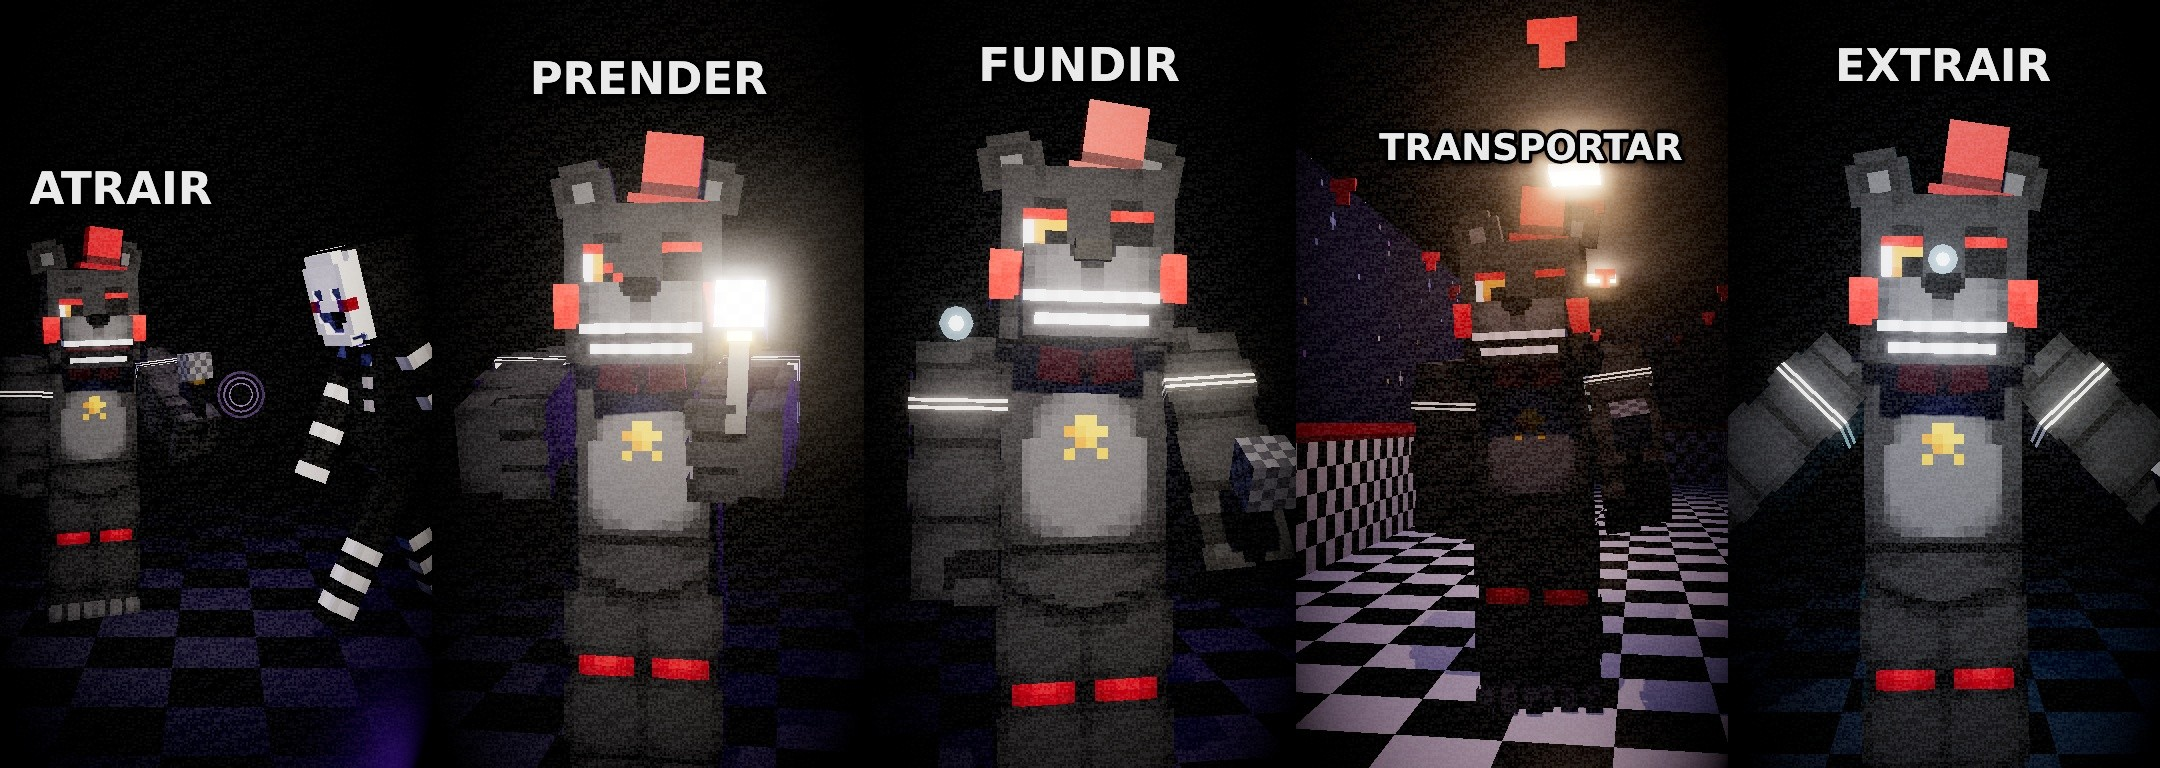
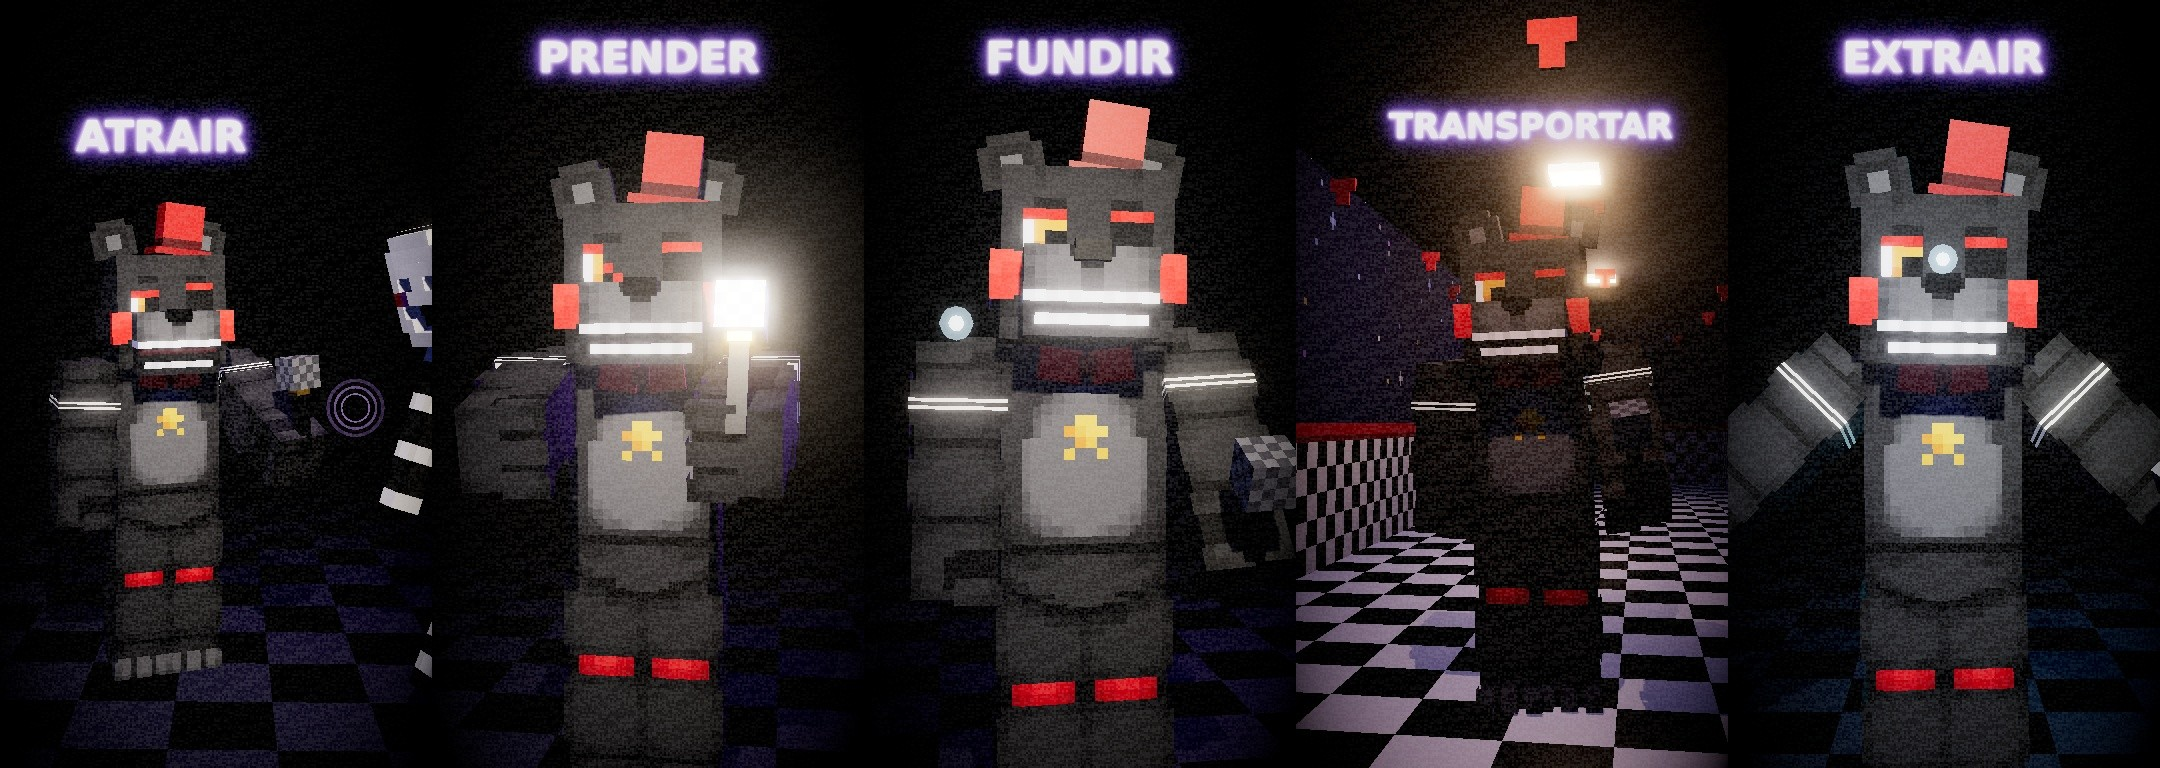
fnaf_lefty: glowing outline-free words following Lefty's head
Claude-Session: https://claude.ai/code/session_017ETuxfviGNxYPofscL2qoo

diff --git a/fnaf_lefty/src/main.js b/fnaf_lefty/src/main.js
@@ -158,11 +158,14 @@ function drawUI(spec, t) {
     ui.font = `bold ${52 * s}px "DejaVu Sans Mono", monospace`; ui.fillStyle = 'rgba(255,255,255,0.95)'; ui.textBaseline = 'top'; ui.fillText('REC', m + 85 * s, m + 30 * s);
     if (blink) { ui.fillStyle = '#ff2a2a'; ui.beginPath(); ui.arc(m + 50 * s, m + 56 * s, 18 * s, 0, 7); ui.fill(); }
     ui.fillStyle = 'rgba(255,255,255,0.95)'; ui.textAlign = 'right'; ui.textBaseline = 'bottom'; ui.fillText(spec, W - m - 30 * s, H - m - 30 * s); ui.textAlign = 'left';
-  } else if (spec.type === 'word') { // one Portuguese word on top, pops with overshoot exactly on the spoken word
-    const k = spec.k, a = spec.a; ui.save(); ui.globalAlpha = a; ui.translate(W * (spec.u ?? 0.5), H * (spec.v ?? 0.16)); ui.scale(k, k);
-    ui.font = `900 ${(spec.txt.length > 8 ? 92 : 112) * s}px "DejaVu Sans", sans-serif`; ui.textAlign = 'center'; ui.textBaseline = 'middle'; ui.lineJoin = 'round';
-    ui.shadowColor = 'rgba(0,0,0,0.85)'; ui.shadowBlur = 24 * s; ui.shadowOffsetY = 8 * s; ui.lineWidth = 18 * s; ui.strokeStyle = '#000000'; ui.strokeText(spec.txt, 0, 0);
-    ui.shadowColor = 'transparent'; ui.fillStyle = '#ffffff'; ui.fillText(spec.txt, 0, 0); ui.restore();
+  } else if (spec.type === 'word') { // glowing word that follows Lefty's head, centred on him, no outline
+    const k = spec.k, a = spec.a; const fs = (spec.txt.length > 8 ? 86 : 104) * s; ui.font = `900 ${fs}px "DejaVu Sans", sans-serif`;
+    const tw = ui.measureText(spec.txt).width * Math.max(1, k); const half = tw / 2 + 24 * s; const cx = Math.min(W - half, Math.max(half, W * spec.u)), cy = H * spec.v;
+    ui.save(); ui.translate(cx, cy); ui.scale(k, k); ui.textAlign = 'center'; ui.textBaseline = 'middle'; ui.globalCompositeOperation = 'lighter';
+    const pulse = 0.85 + 0.15 * Math.sin(t * 7);
+    for (const [blur, al] of [[60 * s, 0.55], [30 * s, 0.7], [12 * s, 0.9]]) { ui.globalAlpha = a * al * pulse; ui.shadowColor = '#b48cff'; ui.shadowBlur = blur; ui.fillStyle = '#b48cff'; ui.fillText(spec.txt, 0, 0); }
+    ui.globalCompositeOperation = 'source-over'; ui.shadowBlur = 8 * s; ui.shadowColor = '#ffffff'; ui.globalAlpha = a;
+    const gr = ui.createLinearGradient(0, -fs / 2, 0, fs / 2); gr.addColorStop(0, '#ffffff'); gr.addColorStop(1, '#e6d8ff'); ui.fillStyle = gr; ui.fillText(spec.txt, 0, 0); ui.restore();
   } else if (spec.type === 'endcard') { // the full video's thumbnail with a small bouncing arrow above and below, both pointing down
     const k = spec.k, a = spec.a ?? 1; const tw = W * 0.84 * k, th = tw * THUMB.height / THUMB.width; const cx = W / 2, cy = H * 0.47; const x0 = cx - tw / 2, y0 = cy - th / 2; const rr = 26 * s * k;
     ui.globalAlpha = a; const rnd = (x, y, w, h, r) => { ui.beginPath(); ui.moveTo(x + r, y); ui.arcTo(x + w, y, x + w, y + h, r); ui.arcTo(x + w, y + h, x, y + h, r); ui.arcTo(x, y + h, x, y, r); ui.arcTo(x, y, x + w, y, r); ui.closePath(); };

diff --git a/fnaf_lefty/src/shots.js b/fnaf_lefty/src/shots.js
@@ -203,7 +203,7 @@ function lefty(x, s, px, py, pz, ry) { const c = put(x, 'lefty', s, px, py, pz, 
 // mic-hold pose (left arm forward so the mic stands upright, ball on top)
 function micHold(c, k = 1) { c.armL.piv.rotation.x += -1.05 * k; c.armL.piv.rotation.z += 0.12 * k; }
 function stageSet(x) { const s = x.S.stage; x.out.scene = s; x.S.stageSpot.intensity = 46; x.post.vig.value = 0.9; return s; }
-function wordUI(x, i) { const c = x.C.lefty; const p = proj(x, new V3(...headTop(c, 0.95))); x.out.ui = { type: 'word', txt: ['ATRAIR', 'PRENDER', 'FUNDIR', 'TRANSPORTAR', 'EXTRAIR'][i], k: back(seg(x.L, 0, 0.22)), a: Math.min(1, x.L / 0.08), u: Math.min(0.72, Math.max(0.28, p[0])), v: Math.max(0.09, Math.min(0.4, p[1])) }; }
+function wordUI(x, i) { const c = x.C.lefty; const p = proj(x, new V3(...headTop(c, 1.05))); x.out.ui = { type: 'word', txt: ['ATRAIR', 'PRENDER', 'FUNDIR', 'TRANSPORTAR', 'EXTRAIR'][i], k: back(seg(x.L, 0, 0.22)), a: Math.min(1, x.L / 0.08), u: p[0], v: Math.max(0.08, Math.min(0.42, p[1])) }; }
 function bigLetter(x, s, i, p, a0, glow = 1) { const L = x.L; if (L < a0) return; const g = x.BIGL[i]; s.add(g); const k = back(seg(L, a0, a0 + 0.3)); g.position.copy(p); g.position.y += 0.04 * Math.sin(L * 5); g.quaternion.copy(x.camera.quaternion); g.scale.setScalar(Math.max(0.001, k)); g.userData.mat.color.setRGB(0.85 + 0.15 * glow, 0.9 + 0.1 * glow, 1); }
 function bpOn(x, s, p, ry = 0, lit = 0) { const b = x.BP; s.add(b); b.position.copy(p); b.rotation.set(-0.15, ry, 0); b.userData.letters.forEach((l, i) => l.userData.mat.color.set(i < lit ? '#ffffff' : '#6f85b8')); return b; }
 
@@ -271,8 +271,8 @@ at(27.72, 'letters', x => {
 // 30.34 "atrair" — L: Lefty sings into the mic, sound waves; the Puppet drifts towards him (kept well apart)
 at(30.34, 'lure', x => {
   const s = voidMood(x, '#a05aff', 44); const L = x.L; const c = lefty(x, s, -0.6, 0, 0, 0.35); alive(c, x.t, 1); micHold(c); c.jaw.rotation.x = 0.25 * Math.abs(Math.sin(x.t * 9)); c.setFace({ lidR: 0, lidL: 0.4 });
-  const p = put(x, 'puppet', s, 0, 0, 0, -1.2); walkPath(p, L, -0.3, 0.84, [1.55, 0.4], [1.0, 0.25], { stride: 1.4, face: false }); p.root.rotation.y = -1.25; p.head.rotation.x = 0.2;
-  waves(x, s, c.handL.getWorldPosition(new V3()).add(new V3(0.25, 0.3, 0.1)), 1.5, '#d8b0ff'); cam(x, [0.25, 1.95, 5.9 - 0.5 * x.u], [0.25, 1.55, 0], 48); wordUI(x, 0);
+  const p = put(x, 'puppet', s, 0, 0, 0, -1.2); walkPath(p, L, -0.3, 0.84, [1.3, 0.4], [0.85, 0.25], { stride: 1.4, face: false }); p.root.rotation.y = -1.25; p.head.rotation.x = 0.2;
+  waves(x, s, c.handL.getWorldPosition(new V3()).add(new V3(0.25, 0.3, 0.1)), 1.5, '#d8b0ff'); cam(x, [-0.2, 1.95, 4.9 - 0.4 * x.u], [-0.3, 1.6, 0], 48); wordUI(x, 0);
 });
 // 31.18 "prender" — E: arms close in, a cage-like hug
 at(31.18, 'trap', x => {
